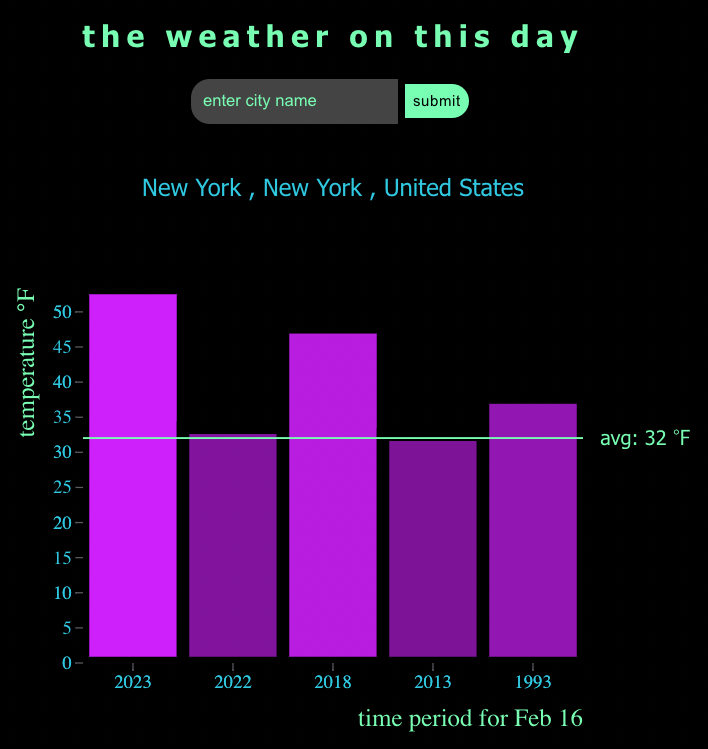
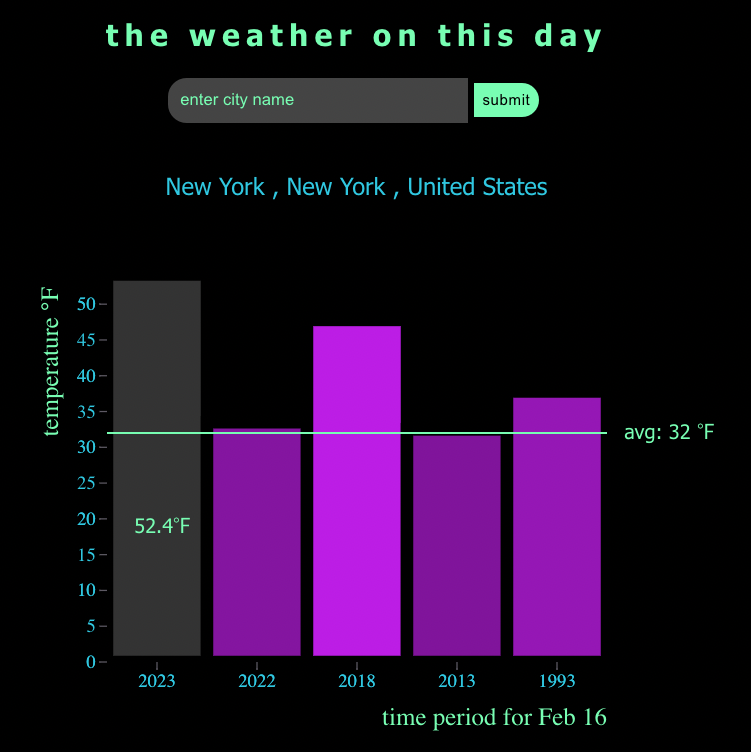
updates about and final project image in readme

diff --git a/README.md b/README.md
@@ -1,5 +1,5 @@
 ## About
-**The Weather On This Day** application allows you to search for any city in world and returns the current temperature, as well as the temperature on the same day 1 year ago, 5 years ago, 10 years ago, 30 years ago. It also shows the average temperature for todays day over the past 30 years.
+**The Weather On This Day** application allows you to search for any city in world and returns the current temperature, as well as the temperature on the same day 1 year ago, 5 years ago, 10 years ago, and 30 years ago. The average temperature for todays day, over the past 30 years, is provided for comparison. Hovering over the bars reveals the temperature value.
 
 ## Link to Site
 <a href="https://weather-today-30.netlify.app/">The Weather On This Day</a>
